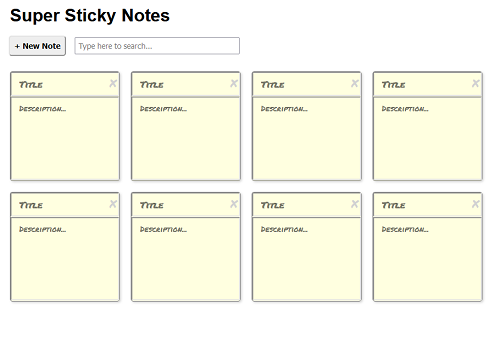
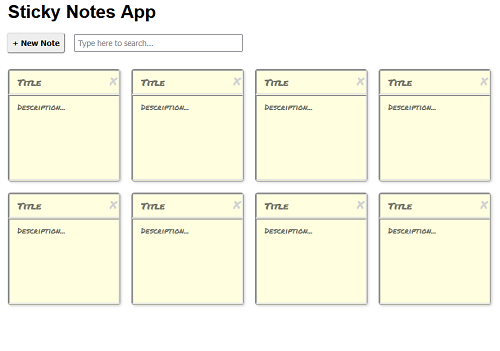
Rearranged projects and made link adjustments

Changed region(s): [[0.0, 0.0, 0.99, 0.9091]]

diff --git a/index.html b/index.html
@@ -53,6 +53,56 @@
     <section class="projects center-content-and-text" id="projects">
       <div class="content-wrapper">
         <h1>Projects</h1>
+
+        <div class="item-container">
+          <article>
+            <a href="https://wgfty4.csb.app/" target="_blank"><img
+                src="img/StickyNotes.PNG" alt="Sticky Note UI screenshot" /></a>
+            <div>
+              <h2>Sticky Notes App</h2>
+              <p>Sticky Notes allow the user to add, remove, and edit sticky notes on their browser thanks to
+                the power of React components. Additionally, the note data is saved to localStorage–no
+                need to worry about accidentally closing out of the website and losing your data!</p>
+              <div class="projects-skills-div">
+                <h3>Skills</h3>
+                <ul>
+                  <li>React</li>
+                  <li>JSX</li>
+                  <li>Lifecycle methods</li>
+                  <li>State management</li>
+                </ul>
+                <form action="https://wgfty4.csb.app/" method="get" target="_blank">
+                  <button type="submit">Live
+                    Page</button></form>
+              </div>
+            </div>
+          </article>
+        </div>
+
+        <div class="item-container">
+          <article>
+            <a href="https://legendoflilac.github.io/github-repo-gallery/" target="_blank"><img src="img/GithubRepo.PNG"
+                alt="GitHub repo gallery screenshot" /></a>
+            <div>
+              <h2>GitHub Repo Gallery</h2>
+              <p>The GitHub Repo Gallery allows users to view my GitHub repositories at a glance. It’s built
+                with vanilla JavaScript and uses GitHub’s REST APIs to fetch the data. A dynamic search
+                allows users to find repository titles that match the user’s input.</p>
+              <div class="projects-skills-div">
+                <h3>Skills</h3>
+                <ul>
+                  <li>Vanilla Javascript</li>
+                  <li>Rest APIs</li>
+                  <li>Event listeners</li>
+                </ul>
+                <form action="https://legendoflilac.github.io/github-repo-gallery/" method="get" target="_blank"><button
+                    type="submit">Live
+                    Page</button></form>
+              </div>
+            </div>
+          </article>
+        </div>
+
         <div class="item-container">
           <article>
             <a href="https://legendoflilac.github.io/guess-the-word/" target="_blank"><img src="img/Guesstheword.PNG"
@@ -71,36 +121,13 @@
                   <li>Input validation</li>
                   <li>Asynchronous functions</li>
                 </ul>
-                <form action="https://legendoflilac.github.io/guess-the-word/" method="get" target="_blank"><button type="submit">Live Page</button></form>
+                <form action="https://legendoflilac.github.io/guess-the-word/" method="get" target="_blank"><button
+                    type="submit">Live Page</button></form>
               </div>
             </div>
           </article>
         </div>
-        
-        <div class="item-container">
-          <article>
-            <a href="https://codesandbox.io/p/sandbox/sticky-note-ui-q2kjkx" target="_blank"><img
-                src="img/StickyNotes.PNG" alt="Sticky Note UI screenshot" /></a>
-            <div>
-              <h2>Sticky Note UI</h2>
-              <p>Sticky Notes allow the user to add, remove, and edit sticky notes on their browser thanks to
-                the power of React components. Additionally, the note data is saved to localStorage–no
-                need to worry about accidentally closing out of the website and losing your data!</p>
-              <div class="projects-skills-div">
-                <h3>Skills</h3>
-                <ul>
-                  <li>React</li>
-                  <li>JSX</li>
-                  <li>Lifecycle methods</li>
-                  <li>State management</li>
-                </ul>
-                <form action="https://codesandbox.io/p/sandbox/sticky-note-ui-q2kjkx" method="get" target="_blank"><button type="submit">Live
-                    Page</button></form>
-              </div>
-            </div>
-          </article>
-        </div>
-        
+
         <div class="item-container">
           <article>
             <a href="https://legendoflilac.github.io/unplugged-website/" target="_blank"><img
@@ -118,30 +145,8 @@
                   <li>CSS Flexbox</li>
                   <li>HTML5</li>
                 </ul>
-                <form action="https://legendoflilac.github.io/unplugged-website/" method="get" target="_blank"><button type="submit">Live
-                    Page</button></form>
-              </div>
-            </div>
-          </article>
-        </div>
-        
-        <div class="item-container">
-          <article>
-            <a href="https://legendoflilac.github.io/github-repo-gallery/" target="_blank"><img
-                src="img/GithubRepo.PNG" alt="GitHub repo gallery screenshot" /></a>
-            <div>
-              <h2>GitHub Repo Gallery</h2>
-              <p>The GitHub Repo Gallery allows users to view my GitHub repositories at a glance. It’s built
-                with vanilla JavaScript and uses GitHub’s REST APIs to fetch the data. A dynamic search
-                allows users to find repository titles that match the user’s input.</p>
-              <div class="projects-skills-div">
-                <h3>Skills</h3>
-                <ul>
-                  <li>Vanilla Javascript</li>
-                  <li>Rest APIs</li>
-                  <li>Event listeners</li>
-                </ul>
-                <form action="https://legendoflilac.github.io/github-repo-gallery/" method="get" target="_blank"><button type="submit">Live
+                <form action="https://legendoflilac.github.io/unplugged-website/" method="get" target="_blank"><button
+                    type="submit">Live
                     Page</button></form>
               </div>
             </div>
@@ -206,14 +211,18 @@
         <div class="content-wrapper">
           <h1>Contact</h1>
           <div class="center-content-and-text">
-          <div class="icon-holder">
-            <a href="mailto:rdevelops@mailingo.net"><i class="fa-solid fa-envelope"></i><p>Email</p></a><!--Email Icon-->
-            <a href="https://github.com/legendoflilac" target="_blank"><i
-                class="fa-brands fa-github"></i><p>GitHub</p></a><!--GitHub Icon-->
-            <a href="https://www.linkedin.com/in/ranelle-irwin/"><i
-                class="fa-brands fa-linkedin"></i><p>LinkedIn</p></a><!--LinkedIn Icon-->
+            <div class="icon-holder">
+              <a href="mailto:rdevelops@mailingo.net"><i class="fa-solid fa-envelope"></i>
+                <p>Email</p>
+              </a><!--Email Icon-->
+              <a href="https://github.com/legendoflilac" target="_blank"><i class="fa-brands fa-github"></i>
+                <p>GitHub</p>
+              </a><!--GitHub Icon-->
+              <a href="https://www.linkedin.com/in/ranelle-irwin/"><i class="fa-brands fa-linkedin"></i>
+                <p>LinkedIn</p>
+              </a><!--LinkedIn Icon-->
+            </div>
           </div>
-        </div>
         </div>
       </section>
     </footer>
